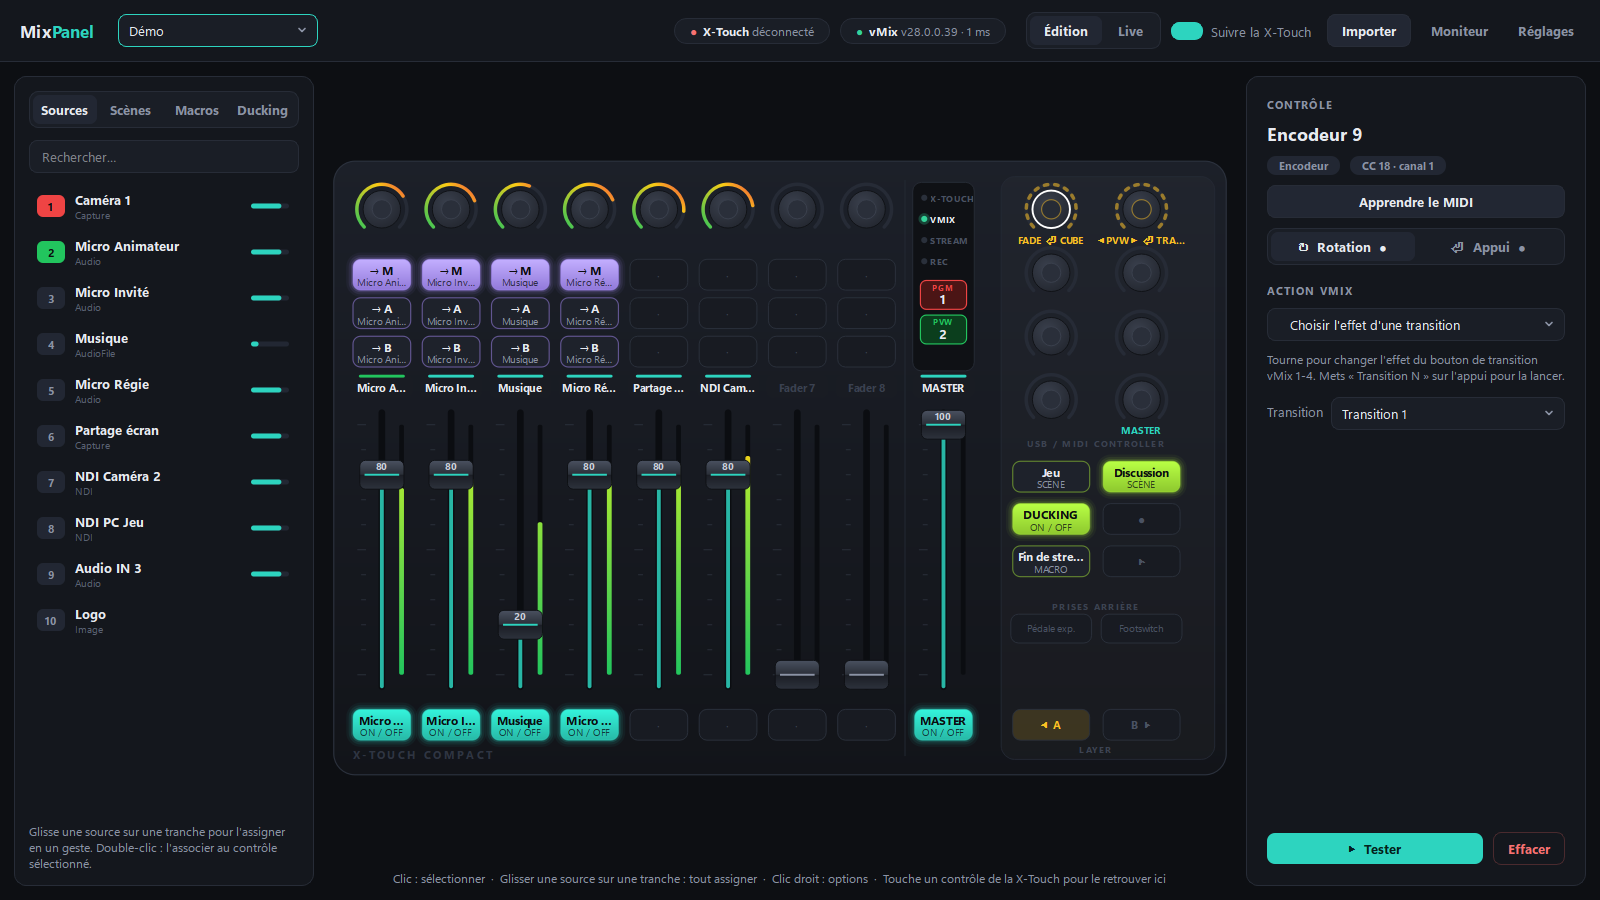
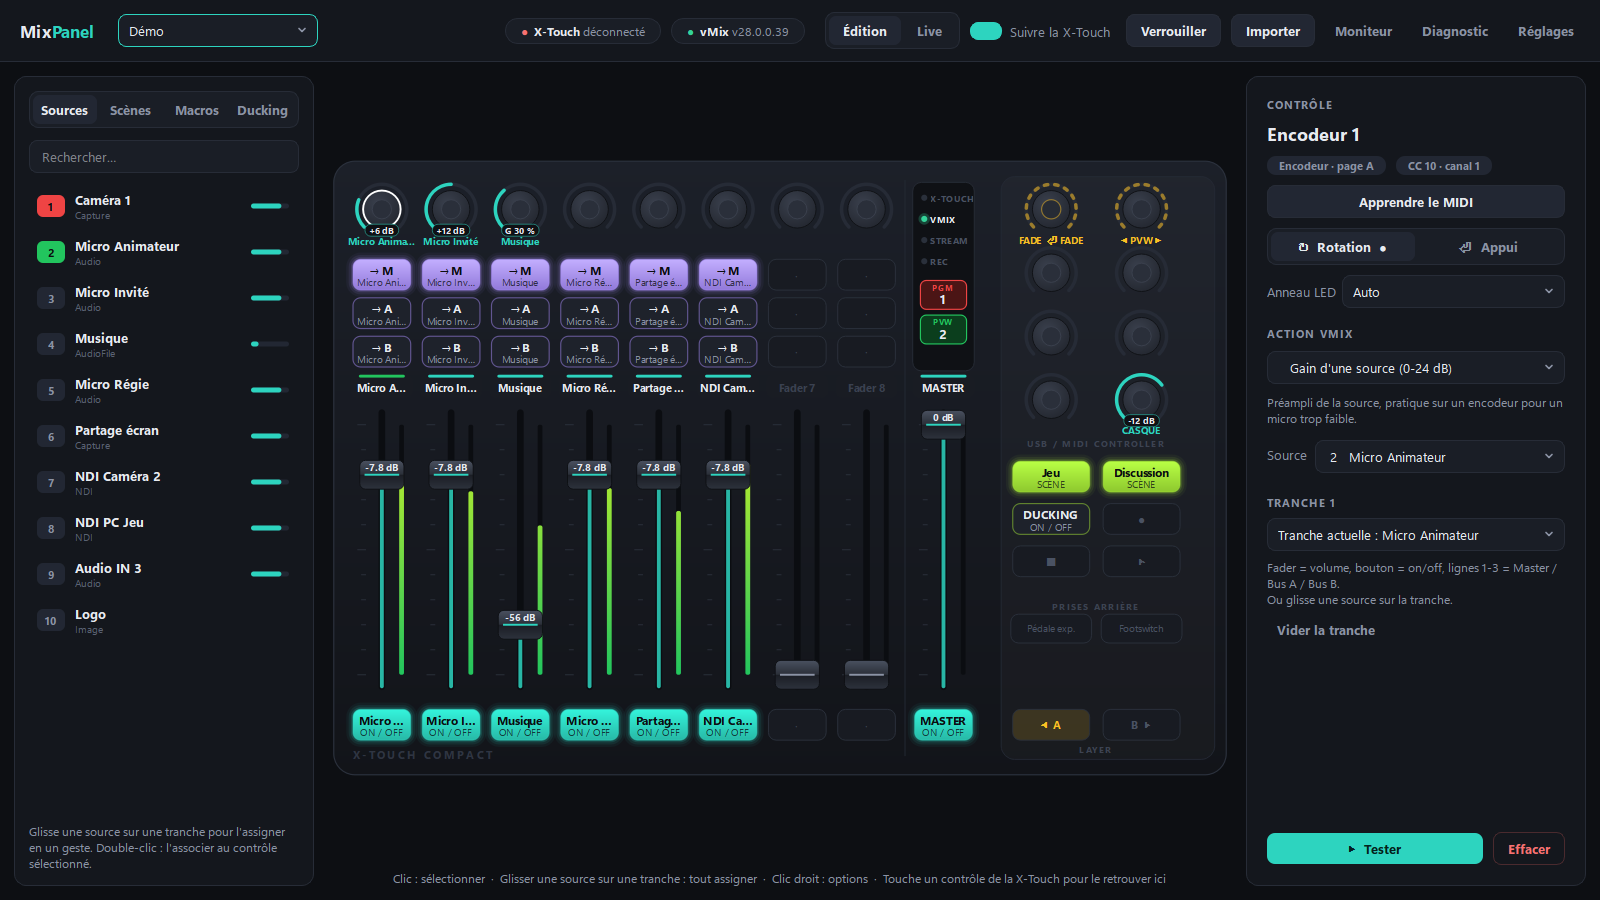
Surface : valeur vMix affichée sur chaque fader et chaque encodeur
Chaque contrôle continu montre la valeur réelle lue dans vMix du paramètre
qu'il pilote, avec son unité (volume en dB, gain « +12 dB », balance
« G 40 % ») : sur le curseur des faders, dans une pastille sous l'anneau des
encodeurs, et dans l'infobulle. Rien ne s'affiche si vMix est hors ligne, si
la source est introuvable ou si vMix ne publie pas la valeur.

diff --git a/pymixpanel/ui/surface.py b/pymixpanel/ui/surface.py
@@ -15,7 +15,6 @@ from PySide6.QtGui import (QColor, QFont, QFontMetricsF, QLinearGradient, QPaint
 from PySide6.QtWidgets import QToolTip, QWidget
 
 from .. import actions as A
-from ..vmix import position_to_db
 from ..xtouch import BUTTON, ENCODER, FADER, PEDAL, TRANSPORT
 from . import theme as T
 
@@ -71,19 +70,6 @@ def build_geometry() -> dict[str, tuple]:
 def _layer_rect(k: int) -> QRectF:
     """Boutons LAYER A / B (bas du bloc de droite)."""
     return QRectF(RIGHT_X[k] - 40, FBTN_Y - 16, 80, 32)
-
-
-_DB_ACTIONS = {"volume", "master_volume", "bus_volume", "headphones_volume"}
-
-
-def _fader_text(action, v: float) -> str:
-    """Volume en dB, comme dans le mixeur vMix (0 dB en haut, -∞ en bas)."""
-    if action is None or action.key not in _DB_ACTIONS:
-        return f"{v * 100:.0f}"
-    db = position_to_db(v * 100)
-    if db == float("-inf") or db < -99:
-        return "-∞"
-    return f"{db:+.1f}" if db > -10 else f"{db:.0f}"
 
 
 def _color(engine, cid: str) -> QColor | None:
@@ -247,6 +233,14 @@ class SurfaceWidget(QWidget):
         f.setBold(bold)
         if spacing:
             f.setLetterSpacing(QFont.AbsoluteSpacing, spacing)
+        return f
+
+    def _fit_font(self, text: str, width: float, size: float) -> QFont:
+        """Police grasse de `size` points, réduite tant que `text` dépasse `width`."""
+        f = self._font(size, True)
+        while size > 5 and QFontMetricsF(f).horizontalAdvance(text) > width:
+            size -= 0.3
+            f = self._font(size, True)
         return f
 
     def _paint_body(self, p: QPainter):
@@ -484,7 +478,25 @@ class SurfaceWidget(QWidget):
             p.setPen(items[0][1])
             p.drawText(QRectF(c.x() - 46, c.y() + r, 92, 12), Qt.AlignCenter,
                        fm.elidedText(txt, Qt.ElideRight, 90))
+        self._paint_value(p, cid, c, r, col)
         self._missing_dot(p, cid, c + QPointF(r * 0.72, -r * 0.72))
+
+    def _paint_value(self, p: QPainter, cid: str, c: QPointF, r: float, col: QColor | None):
+        """Valeur lue dans vMix (« +12 dB »), en pastille dans l'ouverture de l'anneau."""
+        value = self.engine.value_text(cid)
+        if not value:
+            return
+        f = self._fit_font(value, 44, 6.8)
+        w = QFontMetricsF(f).horizontalAdvance(value) + 9
+        pill = QRectF(c.x() - w / 2, c.y() + r - 10.5, w, 12.5)
+        edge = QColor(col) if col is not None else QColor("#2a303b")
+        edge.setAlphaF(0.55)
+        p.setPen(QPen(edge, 1))
+        p.setBrush(QColor("#0f1115"))
+        p.drawRoundedRect(pill, 6, 6)
+        p.setFont(f)
+        p.setPen(QColor("#e6e9f0"))
+        p.drawText(pill, Qt.AlignCenter, value)
 
     def _paint_push(self, p: QPainter, cid: str, c: QPointF, r: float):
         e = self.engine
@@ -553,10 +565,13 @@ class SurfaceWidget(QWidget):
         p.drawRoundedRect(cap, 6, 6)
         p.setPen(QPen(col if col is not None else QColor("#8b93a5"), 2))
         p.drawLine(QPointF(cap.left() + 6, y), QPointF(cap.right() - 6, y))
-        if col is not None:
-            p.setFont(self._font(7.6, True))
-            p.setPen(QColor("#c9ceda"))
-            p.drawText(QRectF(x - 23, y - 15, 46, 13), Qt.AlignCenter, _fader_text(e.action_of(cid), v))
+        value = e.value_text(cid)
+        if value:
+            # valeur lue dans vMix, sur la moitié haute du curseur
+            f = self._fit_font(value, 42, 7.2)
+            p.setFont(f)
+            p.setPen(QColor("#e6e9f0"))
+            p.drawText(QRectF(x - 23, y - 15, 46, 14), Qt.AlignCenter, value)
         self._paint_strip_label(p, cid, x, col)
 
     def _paint_strip_label(self, p: QPainter, cid: str, x: float, col: QColor | None):
@@ -685,6 +700,9 @@ class SurfaceWidget(QWidget):
                     m = e.mapping(cid)
                     who = f" — {e.input_title(m)}" if A.needs_input(a) else ""
                     txt += f"<br>{a.label}{who}"
+                    value = e.value_text(cid)
+                    if value:
+                        txt += f"<br>Dans vMix : <b>{value}</b>"
                     if e.input_missing(m):
                         txt += f"<br><span style='color:{T.DANGER}'>Source introuvable dans vMix</span>"
                 else:

diff --git a/pymixpanel/actions.py b/pymixpanel/actions.py
@@ -2,14 +2,15 @@
 
 Une action continue (fader, encodeur, pédale) reçoit une valeur 0..1 ;
 une action « déclencheur » (bouton) s'exécute à l'appui. Chaque action sait
-aussi lire son état dans vMix pour allumer la LED / placer le fader.
+aussi lire son état dans vMix pour allumer la LED / placer le fader, et les
+actions continues savent l'écrire avec son unité (« -6.2 dB », « +12 dB »).
 """
 from __future__ import annotations
 
 from dataclasses import dataclass
 from typing import Callable
 
-from .vmix import BUSES, VmixState, meter_norm
+from .vmix import BUSES, VmixState, meter_norm, position_to_db
 
 AUDIO, ROUTING, VIDEO, PROD, AUTO, CUSTOM = "audio", "routing", "video", "prod", "auto", "custom"
 
@@ -51,6 +52,7 @@ class Action:
     help: str = ""
     step: bool = False   # encodeur cranté : run() reçoit +n / -n crans au lieu d'une valeur
     engine: bool = False  # exécutée par le moteur (scènes, macros, ducking), pas par vMix
+    display: Callable | None = None    # (retour 0..1) -> valeur lisible avec son unité
 
 
 def _num(state: VmixState, p: dict) -> int:
@@ -67,6 +69,27 @@ def _input_fb(attr: Callable):
 
 def _vol(v: float) -> str:
     return f"{v * 100:.1f}".rstrip("0").rstrip(".")
+
+
+def db_text(v: float) -> str:
+    """Position de fader 0..1 -> dB, comme dans le mixeur vMix (0 dB en haut, -∞ en bas)."""
+    db = position_to_db(v * 100)
+    if db < -99:
+        return "-∞ dB"
+    if abs(db) < 0.05:
+        return "0 dB"
+    return f"{db:+.1f} dB" if db > -10 else f"{db:.0f} dB"
+
+
+def gain_text(v: float) -> str:
+    g = round(v * 24, 1)
+    return f"+{g:g} dB" if g > 0 else "0 dB"
+
+
+def balance_text(v: float) -> str:
+    """Centre, ou pourcentage vers la gauche (G) / la droite (D)."""
+    pct = round((v * 2 - 1) * 100)
+    return "Centre" if pct == 0 else f"{'G' if pct < 0 else 'D'} {abs(pct)} %"
 
 
 def _ellipsis(text: str, n: int = 12) -> str:
@@ -89,24 +112,28 @@ _add(Action(
     _input_fb(lambda i, p: i.volume / 100 if i.has_audio else None),
     lambda p, t: (t, "Volume"),
     "Le fader règle le volume de la source dans le mixeur vMix.",
+    display=db_text,
 ))
 _add(Action(
     "master_volume", "Volume Master", AUDIO, True, [],
     lambda p, v, st: [("SetMasterVolume", {"Value": _vol(v)}, "vol:master")],
     lambda p, st: st.master.volume / 100 if st.online else None,
     lambda p, t: ("MASTER", "Volume"),
+    display=db_text,
 ))
 _add(Action(
     "bus_volume", "Volume d'un bus", AUDIO, True, [Param("bus", "Bus", "bus", "A")],
     lambda p, v, st: [(f"SetBus{p.get('bus', 'A')}Volume", {"Value": _vol(v)}, f"vol:bus{p.get('bus')}")],
     lambda p, st: (st.buses[p.get("bus", "A")].volume / 100) if p.get("bus", "A") in st.buses else None,
     lambda p, t: (f"BUS {p.get('bus', 'A')}", "Volume"),
+    display=db_text,
 ))
 _add(Action(
     "headphones_volume", "Volume casque", AUDIO, True, [],
     lambda p, v, st: [("SetHeadphonesVolume", {"Value": _vol(v)}, "vol:phones")],
     lambda p, st: st.headphones / 100 if st.online else None,
     lambda p, t: ("CASQUE", "Volume"),
+    display=db_text,
 ))
 _add(Action(
     "balance", "Balance d'une source", AUDIO, True, [IN],
@@ -115,6 +142,7 @@ _add(Action(
     _input_fb(lambda i, p: (i.balance + 1) / 2 if i.has_audio else None),
     lambda p, t: (t, "Balance"),
     "Idéal sur un encodeur : gauche ↔ droite, centre = 50 %.",
+    display=balance_text,
 ))
 _add(Action(
     "gain", "Gain d'une source (0-24 dB)", AUDIO, True, [IN],
@@ -123,6 +151,7 @@ _add(Action(
     _input_fb(lambda i, p: i.gain / 24 if i.has_audio else None),
     lambda p, t: (t, "Gain"),
     "Préampli de la source, pratique sur un encodeur pour un micro trop faible.",
+    display=gain_text,
 ))
 _add(Action(
     "audio_toggle", "Activer / couper une source", AUDIO, False, [IN],

diff --git a/tests/test_core.py b/tests/test_core.py
@@ -713,6 +713,58 @@ def test_ducking_without_setvolumefade(tmp_path):
     eng.vmix.stop()
 
 
+def test_value_text_shows_real_vmix_value(tmp_path):
+    """La surface affiche la valeur lue dans vMix (avec son unité), jamais une valeur inventée."""
+    from pymixpanel.actions import balance_text, db_text, gain_text
+    assert db_text(1.0) == "0 dB" and db_text(0.5) == "-24 dB" and db_text(0.0) == "-∞ dB"
+    assert db_text(0.9) == "-3.7 dB"
+    assert gain_text(0.0) == "0 dB" and gain_text(0.5) == "+12 dB" and gain_text(7 / 24) == "+7 dB"
+    assert balance_text(0.5) == "Centre" and balance_text(0.3) == "G 40 %" and balance_text(1.0) == "D 100 %"
+
+    eng, midi = setup_engine(tmp_path)
+    S = fake_vmix.S
+    try:
+        eng.set_mapping("enc1", {"action": "gain", "input": MIC1})
+        eng.set_mapping("enc2", {"action": "balance", "input": MUSIC})
+        eng.set_mapping("fader1", {"action": "volume", "input": MIC1})
+        eng.set_mapping("main", {"action": "master_volume"})
+        # valeurs changées dans vMix (pas depuis la X-Touch) : l'affichage suit
+        with fake_vmix.LOCK:
+            S["inputs"][MIC1]["gain"] = 9
+            S["inputs"][MIC1]["volume"] = 50.0
+            S["inputs"][MUSIC]["balance"] = -0.4
+        assert wait(lambda: eng.value_text("enc1") == "+9 dB"), eng.value_text("enc1")
+        assert wait(lambda: eng.value_text("fader1") == "-24 dB"), eng.value_text("fader1")
+        assert eng.value_text("enc2") == "G 40 %"
+        assert eng.value_text("main") == "0 dB"
+        # depuis la console : l'encodeur monte le gain, la valeur affichée est celle que vMix a prise
+        eng.on_midi(cc(10, 64))
+        eng.on_midi(cc(10, 68))                    # +4 crans = +4 % de 24 dB -> vMix arrondit à 10 dB
+        assert wait(lambda: S["inputs"][MIC1]["gain"] == 10)
+        assert wait(lambda: eng.value_text("enc1") == "+10 dB"), eng.value_text("enc1")
+        # rien à afficher : contrôle libre, bouton, encodeur cranté, vu-mètre, paramètre non publié,
+        # source sans audio ou introuvable
+        eng.set_mapping("enc3", {"action": "preview_nav"})
+        eng.set_mapping("enc4", {"action": "meter", "source": "master"})
+        eng.set_mapping("fader2", {"action": "custom_value", "function": "SetZoom", "query": "Value={value}"})
+        eng.set_mapping("fader3", {"action": "volume", "input": "0b8f6a3e-1111-4c1d-9a55-000000000010"})
+        eng.set_mapping("fader4", {"action": "volume", "input": "inconnue"})
+        eng.set_mapping("fader5", None)
+        for cid in ("enc3", "enc4", "fader2", "fader3", "fader4", "fader5", "enc5", "m1_1", "push1"):
+            assert eng.value_text(cid) is None, cid
+        # vMix hors ligne : plus aucune valeur
+        from pymixpanel.vmix import VmixState
+        eng.vmix.stop()
+        eng.on_state(VmixState())
+        for cid in ("enc1", "enc2", "fader1", "main"):
+            assert eng.value_text(cid) is None, cid
+    finally:
+        with fake_vmix.LOCK:
+            S["inputs"][MIC1].update(gain=0, volume=80.0)
+            S["inputs"][MUSIC]["balance"] = 0.0
+        eng.vmix.stop()
+
+
 if __name__ == "__main__":
     import tempfile
     for name, fn in list(globals().items()):

diff --git a/pymixpanel/engine.py b/pymixpanel/engine.py
@@ -224,6 +224,20 @@ class Engine(QObject):
             title = effect if a.key == "transition_effect" else (f"{dur} ms" if dur else "")
         return a.short(m, title) if a.short else (a.label, "")
 
+    def value_text(self, cid: str) -> str | None:
+        """Valeur réelle, lue dans vMix, du paramètre que pilote un fader ou un encodeur,
+        avec son unité (« -6.2 dB », « +12 dB », « G 40 % »). None quand il n'y a rien de sûr
+        à afficher : contrôle libre, vMix hors ligne, source introuvable ou sans audio,
+        paramètre que vMix ne publie pas."""
+        a, m = self.action_of(cid), self.mapping(cid)
+        if not a or not a.display or not a.feedback or not self.state.online:
+            return None
+        try:
+            fb = self._reconcile(a, m, a.feedback(m, self.state))
+        except Exception:
+            return None
+        return a.display(float(fb)) if fb is not None else None
+
     def assign_input(self, cid: str, input_key: str):
         """Glisser-déposer d'une source : association la plus logique."""
         if self.locked:

diff --git a/docs/guide.md b/docs/guide.md
@@ -53,6 +53,18 @@ En haut à droite, deux pastilles indiquent l'état des connexions :
 - **Bouton plein** = LED allumée (source active, envoyée sur le bus, scène en cours…).
 - **Barre au-dessus du fader** : 🔴 la source est au programme, 🟢 en preview.
 - **Vu-mètre** à droite de chaque fader, de -60 à 0 dB.
+- **Valeur vMix** : chaque fader (sur son curseur) et chaque encodeur (dans une pastille sous l'anneau) affiche la valeur
+  réelle du paramètre qu'il pilote, lue dans vMix et mise à jour en direct, que tu bouges la X-Touch ou le mixeur vMix.
+
+  | Action | Valeur affichée |
+  |---|---|
+  | Volume d'une source, du Master, d'un bus, du casque | En dB, comme dans le mixeur vMix : `0 dB`, `-7.8 dB`, `-∞ dB` |
+  | Gain d'une source | `+12 dB` (de 0 à 24 dB) |
+  | Balance d'une source | `Centre`, `G 40 %`, `D 40 %` |
+
+  Rien ne s'affiche quand il n'y a rien de sûr à montrer : vMix déconnecté, source introuvable ou sans audio, contrôle
+  libre, encodeur cranté, vu-mètre, ou fonction personnalisée (vMix ne publie pas sa valeur). Survole un contrôle :
+  l'infobulle rappelle la valeur (« Dans vMix : +12 dB »).
 - **Pastille rouge** : la source associée est introuvable dans vMix.
 
 ### Modes Édition et Live
@@ -115,7 +127,7 @@ associée. Sur la surface, la rotation est indiquée sous l'encodeur et l'appui 
 
 Il y a deux façons de tourner :
 
-- **Continue** (volume, balance, gain, volume d'un bus…) : l'anneau LED montre la valeur.
+- **Continue** (volume, balance, gain, volume d'un bus…) : l'anneau LED montre la valeur, et la surface l'écrit sous l'anneau avec son unité (« +12 dB »).
 - **Crantée** (anneau en pointillés) : chaque cran fait une action. L'encodeur est recentré à chaque cran, il ne bute donc jamais.
   - *Parcourir les sources en preview*
   - *Choisir l'effet d'une transition* (1 à 4)

diff --git a/docs/architecture.md b/docs/architecture.md
@@ -58,6 +58,10 @@ flowchart LR
 `Engine.refresh_feedback()` parcourt tous les contrôles à chaque nouvel état vMix, calcule la valeur
 attendue et n'envoie à la console **que ce qui a changé** (cache `_sent`).
 
+`Engine.value_text(cid)` donne la valeur lisible d'un fader ou d'un encodeur (« +12 dB ») : le retour de l'action,
+mis en forme par son champ `display`. La surface l'affiche telle quelle, et rien du tout quand elle vaut `None`
+(vMix hors ligne, source introuvable, action sans `display`).
+
 ### Ajouter une action
 
 Toutes les actions sont déclarées dans `actions.py` :
@@ -126,6 +130,7 @@ puis vérifie de bout en bout :
 | `test_lost_final_command_is_resent` | vMix perd la fin d'une rafale : la position du fader lui est renvoyée, le moteur ne « corrige » pas |
 | `test_final_position_sent_twice` | Au relâchement après un geste, la position finale part deux fois vers vMix |
 | `test_ring_shows_push_state` | Anneau témoin de l'appui : plein (27), éteint, clignotant (28), pendant l'appui pour une action sans état |
+| `test_value_text_shows_real_vmix_value` | Valeur vMix affichée sur les faders et encodeurs (dB, gain, balance), rien si hors ligne ou non lisible |
 | `test_ducking_without_setvolumefade` | Ducking fonctionnel même si SetVolumeFade ne fait rien (fondu fait par MixPanel) |
 | `test_console_mode_mc_and_back` | Mode Mackie : MixPanel en pause (ni actions, ni retours), puis retour au mode standard |
 

diff --git a/CHANGELOG.md b/CHANGELOG.md
@@ -1,5 +1,12 @@
 # Journal des versions
 
+## 1.4.0 — 2026-11-23
+
+### La valeur vMix sur chaque fader et chaque encodeur
+- La surface affiche la **valeur réelle lue dans vMix** du paramètre que pilote chaque contrôle, avec son unité : sur le curseur des **faders** et dans une pastille sous l'anneau des **encodeurs**. Exemples : volume `-7.8 dB`, gain d'une source `+12 dB`, balance `G 40 %`.
+- La valeur suit vMix **en direct**, que le changement vienne de la X-Touch, de la souris ou du mixeur vMix. L'infobulle d'un contrôle la rappelle (« Dans vMix : +12 dB »).
+- Aucune valeur n'est inventée : rien ne s'affiche si vMix est déconnecté, si la source est introuvable ou sans audio, ni pour un contrôle libre, un encodeur cranté, un vu-mètre ou une fonction personnalisée (vMix ne publie pas sa valeur). Le curseur d'un fader associé à une fonction personnalisée n'affiche donc plus sa position.
+
 ## 1.3.0 — 2026-11-23
 
 ### Pilotage depuis un Stream Deck (py-livedeck)
